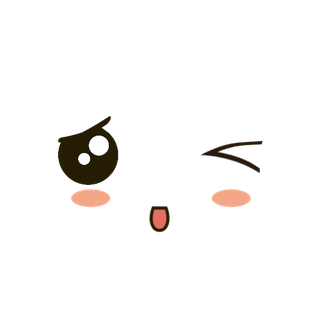
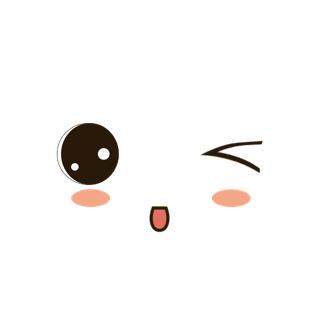
Crying, happy, surprised and shivering faces for story visitors; wink keeps a happy open eye; candy corn stays at the splash edges
Claude-Session: https://claude.ai/code/session_019v8WeJ6PFisWH7i3ZPPzct

Changed region(s): [[0.1562, 0.3438, 0.375, 0.5938], [0.3438, 0.5, 0.375, 0.5312], [0.2812, 0.5625, 0.3125, 0.5938]]

diff --git a/app/src/main/java/com/razedragon/tinylab/GameView.kt b/app/src/main/java/com/razedragon/tinylab/GameView.kt
@@ -5322,7 +5322,8 @@ class GameView(context: Context) : View(context) {
         // drifting candy corn
         for (k in 0 until 6) {
             val f = (age * 0.08f + k * 0.17f) % 1f
-            val x = w * ((k * 0.29f) % 1f); val y = h * (0.1f + f * 0.85f)
+            // keep to the sides so they never cross the title or the mushroom
+            val x = w * (if (k % 2 == 0) 0.05f + (k / 2) * 0.07f else 0.95f - (k / 2) * 0.07f); val y = h * (0.1f + f * 0.85f)
             c.save(); c.rotate(age * 60f + k * 50f, x, y)
             drawEventFood(c, 5, x, y, 7f * dp)
             c.restore()
@@ -6441,15 +6442,59 @@ class GameView(context: Context) : View(context) {
     // ---------- Pets ----------
 
     /** 0 snail, 1 ladybug, 2 firefly, 3 froggy, 4 ghostie, 5 penguin, 6 bunny */
-    private fun drawPet(c: Canvas, p: Int, x: Float, y0: Float, s: Float, phase: Float, facing: Float, asleep: Boolean) {
+    /** [feel]: 0 normal, 1 crying, 2 happy, 3 surprised, 4 shivering (used by story scenes). */
+    private fun drawPet(c: Canvas, p: Int, x: Float, y0: Float, s: Float, phase: Float, facing: Float, asleep: Boolean, feel: Int = 0) {
         val f = if (facing >= 0) 1f else -1f
         val eye = Color.rgb(45, 30, 55)
         fun eyes(ex: Float, ey: Float, r: Float, gap: Float) {
             fill.color = eye
-            if (asleep) { stroke.color = eye; stroke.strokeWidth = r * 0.6f
-                c.drawLine(ex - gap - r, ey, ex - gap + r, ey, stroke); c.drawLine(ex + gap - r, ey, ex + gap + r, ey, stroke) }
-            else { c.drawCircle(ex - gap, ey, r, fill); c.drawCircle(ex + gap, ey, r, fill)
-                fill.color = Color.WHITE; c.drawCircle(ex - gap + r * 0.3f, ey - r * 0.3f, r * 0.35f, fill); c.drawCircle(ex + gap + r * 0.3f, ey - r * 0.3f, r * 0.35f, fill) }
+            stroke.color = eye; stroke.strokeCap = Paint.Cap.ROUND
+            val my = ey + gap * 0.95f   // where a mouth would go
+            when {
+                asleep -> { stroke.strokeWidth = r * 0.6f
+                    c.drawLine(ex - gap - r, ey, ex - gap + r, ey, stroke); c.drawLine(ex + gap - r, ey, ex + gap + r, ey, stroke) }
+                feel == 1 -> {   // crying: worried brows, watery eyes, tears streaming, wobbly frown
+                    stroke.strokeWidth = r * 0.45f
+                    for (sd in intArrayOf(-1, 1)) c.drawLine(ex + sd * (gap + r * 1.1f), ey - r * 1.5f, ex + sd * (gap - r * 0.6f), ey - r * 2.3f, stroke)
+                    for (sd in intArrayOf(-1, 1)) {
+                        val cx2 = ex + sd * gap
+                        fill.color = eye; c.drawCircle(cx2, ey, r * 1.05f, fill)
+                        fill.color = Color.WHITE; c.drawCircle(cx2 - r * 0.3f, ey - r * 0.35f, r * 0.38f, fill); c.drawCircle(cx2 + r * 0.35f, ey + r * 0.35f, r * 0.22f, fill)
+                        // a pool of tears along the bottom of each eye, then a stream down the cheek
+                        fill.color = Color.argb(210, 120, 190, 255)
+                        c.drawOval(cx2 - r * 1.15f, ey + r * 0.45f, cx2 + r * 1.15f, ey + r * 1.15f, fill)
+                        val streamTop = ey + r * 0.9f
+                        val len = gap * 1.6f
+                        c.drawRoundRect(cx2 + sd * r * 0.55f - r * 0.32f, streamTop, cx2 + sd * r * 0.55f + r * 0.32f, streamTop + len, r * 0.3f, r * 0.3f, fill)
+                        val d = (t * 1.6f + (if (sd < 0) 0f else 0.5f)) % 1f   // drips falling off
+                        fill.color = Color.argb((230 * (1f - d)).toInt(), 120, 190, 255)
+                        c.drawCircle(cx2 + sd * r * 0.55f, streamTop + len + d * gap * 1.4f, r * 0.42f, fill)
+                    }
+                    stroke.strokeWidth = r * 0.4f
+                    path.reset(); path.moveTo(ex - r * 1.3f, my + r * 0.5f)
+                    path.quadTo(ex - r * 0.65f, my - r * 0.4f, ex, my + r * 0.1f); path.quadTo(ex + r * 0.65f, my - r * 0.4f, ex + r * 1.3f, my + r * 0.5f)
+                    c.drawPath(path, stroke)
+                }
+                feel == 2 -> {   // happy: ^^ eyes and a little smile
+                    stroke.strokeWidth = r * 0.5f
+                    for (sd in intArrayOf(-1, 1)) c.drawArc(ex + sd * gap - r, ey - r * 0.6f, ex + sd * gap + r, ey + r * 1.2f, 200f, 140f, false, stroke)
+                    c.drawArc(ex - r * 0.9f, my - r * 0.8f, ex + r * 0.9f, my + r * 0.6f, 20f, 140f, false, stroke)
+                }
+                feel == 3 -> {   // surprised: big eyes, little "o"
+                    for (sd in intArrayOf(-1, 1)) { fill.color = eye; c.drawCircle(ex + sd * gap, ey, r * 1.3f, fill)
+                        fill.color = Color.WHITE; c.drawCircle(ex + sd * gap + r * 0.35f, ey - r * 0.4f, r * 0.45f, fill) }
+                    fill.color = eye; c.drawOval(ex - r * 0.45f, my - r * 0.3f, ex + r * 0.45f, my + r * 0.7f, fill)
+                }
+                feel == 4 -> {   // shivering: squeezed > < eyes
+                    stroke.strokeWidth = r * 0.45f
+                    val j = sin(t * 40f) * r * 0.15f
+                    for (sd in intArrayOf(-1, 1)) { val cx2 = ex + sd * gap + j
+                        c.drawLine(cx2 - sd * r, ey - r * 0.8f, cx2 + sd * r * 0.6f, ey, stroke); c.drawLine(cx2 + sd * r * 0.6f, ey, cx2 - sd * r, ey + r * 0.8f, stroke) }
+                    path.reset(); path.moveTo(ex - r * 1.1f, my); for (k in 1..4) path.lineTo(ex - r * 1.1f + k * r * 0.55f, my + (if (k % 2 == 0) 0f else r * 0.4f)); c.drawPath(path, stroke)
+                }
+                else -> { c.drawCircle(ex - gap, ey, r, fill); c.drawCircle(ex + gap, ey, r, fill)
+                    fill.color = Color.WHITE; c.drawCircle(ex - gap + r * 0.3f, ey - r * 0.3f, r * 0.35f, fill); c.drawCircle(ex + gap + r * 0.3f, ey - r * 0.3f, r * 0.35f, fill) }
+            }
         }
         when (p) {
             0 -> { // snail
@@ -7444,10 +7489,11 @@ class GameView(context: Context) : View(context) {
         val vs = min(150f * dp, w * 0.36f)
         val vy = stageY + hover - vb
         c.saveLayerAlpha(0f, 0f, w, h, ((if (speaker == 0 || speaker == 2) 255 else 160) * vIn).toInt())
-        drawPet(c, q.pet, vx, vy, vs, t * 6f, -1f, false)
+        val feel = if (speaker == 0 && l != null) when (l.emote) { 1 -> 1; 2 -> 2; 3 -> 3; 4 -> 4; else -> 0 } else 0
+        drawPet(c, q.pet, vx, vy, vs, t * 6f, -1f, false, feel)
         c.restore()
         // emote over whoever is talking
-        if (l != null && l.emote > 0 && speaker != 2) {
+        if (l != null && l.emote > 0 && speaker != 2 && !(speaker == 0 && (l.emote == 1 || l.emote == 4))) {   // the visitor's own face shows tears and shivers
             val ex = if (speaker == 0) vx + vs * 0.42f else px + profS * 0.45f
             val ey = if (speaker == 0) vy - vs * 1.05f else stageY - profS * 1.15f
             when (l.emote) {

diff --git a/app/src/test/java/com/razedragon/tinylab/ScreensTest.kt b/app/src/test/java/com/razedragon/tinylab/ScreensTest.kt
@@ -440,6 +440,7 @@ class ScreensTest {
         g.testFrame(1.5f)
         assertTrue(g.testSceneWhy(), g.testSceneOn())
         save(g.testRender(), "scene_ghost_1")
+        g.testTap("scene_tap"); g.testTap("scene_tap"); g.testFrame(3f); save(g.testRender(), "scene_ghost_cry")
         // tap through to the choice
         var guard = 0
         while (!g.testButtonIds().contains("scene_choice0") && guard++ < 20) { g.testTap("scene_tap"); g.testTap("scene_tap"); g.testFrame(0.1f) }
